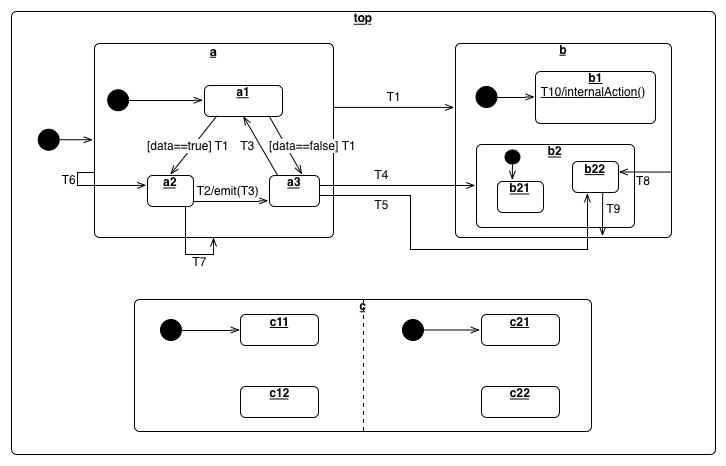
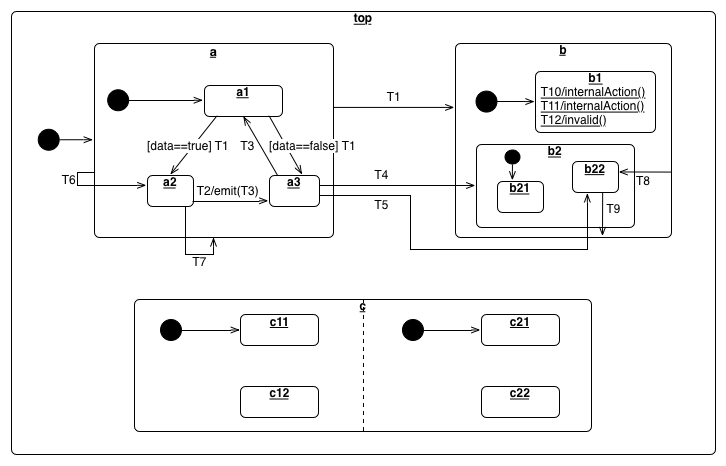
Cleanup tests and docs.

Changed region(s): [[0.6364, 0.1803, 0.9091, 0.3004], [0.5758, 0.691, 0.6667, 0.721]]

diff --git a/test/testAdvanced.js b/test/testAdvanced.js
@@ -123,7 +123,7 @@ buster.testCase("testAdvanced", {
             target: b2, // invalid definition of an internal transition
             kind: 'internal',
             action: function (theData) {
-                _.log.push("T11:internalAction()");
+                _.log.push("T12:invalid()");
             }
         };
         
